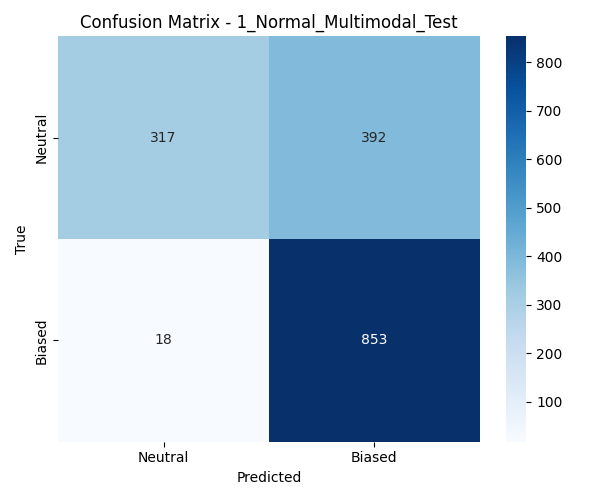
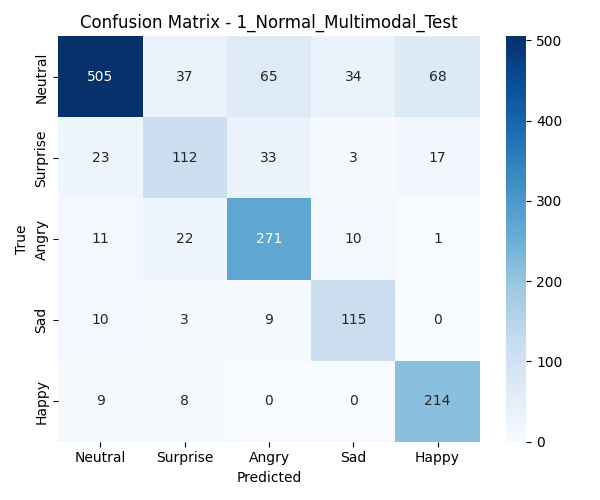
pro_2class

diff --git a/emotion_pro/dataset_multimodal.py b/emotion_pro/dataset_multimodal.py
@@ -25,6 +25,15 @@ class MultimodalDataset(Dataset):
         self.texts = []
         self.bio_features = []
         self.labels = []
+
+        # 🔥 [수정] 감정 라벨 매핑 (Fear, Disgust 제외됨)
+        self.label_map = {
+            "neutral": 0,
+            "surprise": 1,
+            "angry": 2,
+            "sad": 3,
+            "happy": 4
+        }
         
         # ... (이하 기존 __init__ 로직 유지) ...
         for _, row in self.df.iterrows():
@@ -32,8 +41,13 @@ class MultimodalDataset(Dataset):
             
             # 이진 분류: neutral(0) vs others(1)
             raw_emotion = row["Emotion"].lower()
-            # config.py 기준으로 2클래스 이므로 0 또는 1
-            label = 0 if raw_emotion == "neutral" else 1
+            # 정의된 5개 감정 외의 데이터가 들어오면 건너뛰거나 에러 처리
+            if raw_emotion not in self.label_map:
+                print(f"Warning: Unknown emotion '{raw_emotion}' found. Skipping...")
+                continue
+
+            #
+            label = self.label_map[raw_emotion]
 
             bio_vals = [
                 float(row["EDA"]),

diff --git a/emotion_pro/train.py b/emotion_pro/train.py
@@ -109,8 +109,8 @@ def test_multimodal(model, loader, device, shuffle_mode="none"):
             loss = ce(logits, label)
             total_loss += loss.item()
 
-            # AUC 계산용 확률값 (이진 분류 시 1번 클래스 확률)
-            probs = F.softmax(logits, dim=1)[:, 1] 
+            # 필요해?
+            probs = F.softmax(logits, dim=1) 
             pred = logits.argmax(dim=1)
             
             all_preds.extend(pred.cpu().tolist())

diff --git a/emotion_pro/main.py b/emotion_pro/main.py
@@ -70,7 +70,7 @@ def save_plots_and_report(scenario_name, labels, preds, probs):
     os.makedirs(output_dir, exist_ok=True)  
     
     # 1. Classification Report
-    target_names = ["Neutral", "Biased"]
+    target_names = ["Neutral", "Surprise", "Angry", "Sad", "Happy"]
     print(f"\n>> Classification Report ({scenario_name}):")
     print(classification_report(labels, preds, target_names=target_names, digits=4))
 

diff --git a/emotion_pro/config.py b/emotion_pro/config.py
@@ -16,7 +16,7 @@ config = {
         "bio_hidden_dim": 64,
         "bio_output_dim": 64,
         "fusion_hidden_dim": 256,
-        "num_classes": 2     # 이진 분류 (Neutral vs Biased)
+        "num_classes": 5     # 이진 분류 (Neutral vs Biased)
     }
 }
 
